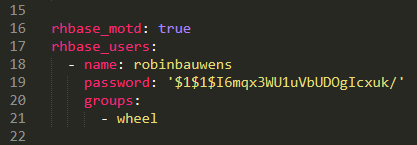
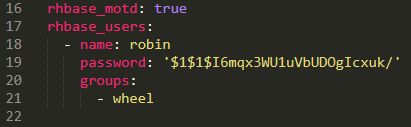
Opdracht 1 code en report toegevoegd
Inclusief aanpassing gebruiker (naam)

diff --git a/report/00-server-setup report.md b/report/00-server-setup report.md
@@ -1,0 +1,95 @@
+# Enterprise Linux Lab Report
+
+- Student name: Robin Bauwens 
+- Github repo: <https://github.com/HoGentTIN/elnxsme-RobinBauwens.git>
+
+Describe the goals of the current iteration/assignment in a short sentence.
+
+## Test plan
+
+How are you going to verify that the requirements are met? The test plan is a detailed checklist of actions to take, including the expected result for each action, in order to prove your system meets the requirements. Part of this is running the automated tests, but it is not always possible to validate *all* requirements throught these tests.
+
+
+1. Ga naar je working directory van het Github-project.
+2. Verwijder de VM met `vagrant destroy -f pu004` indien deze bestaat. Je zou status `not created` moeten krijgen.
+3. Voer `vagrant up pu004` uit.
+4. Log in op de server met `vagrant ssh pu004` en voer de testen uit (`vagrant/test/runbats.sh`).
+Je zou volgende output moeten krijgen:
+
+    ```
+    [vagrant@pu004 test]$ sudo /vagrant/test/runbats.sh
+    Running test /vagrant/test/common.bats
+    ✓ EPEL repository should be available
+    ✓ Bash-completion should have been installed
+    ✓ bind-utils should have been installed
+    ✓ Git should have been installed
+    ✓ Nano should have been installed
+    ✓ Tree should have been installed
+    ✓ Vim-enhanced should have been installed
+    ✓ Wget should have been installed
+    ✓ Admin user bert should exist
+    ✓ Custom /etc/motd should be installed
+
+    10 tests, 0 failures
+    ```
+
+5. Log uit van de server en ssh ernaar toe (niet via vagrant) met `ssh robin@192.0.2.50`.
+Verwachte output (mileage may vary):
+    ```
+    $ ssh robin@192.0.2.50
+    Welcome to pu004.localdomain.
+    enp0s3     : 10.0.2.15         fe80::a00:27ff:fe5c:6428/64
+    enp0s8     : 192.0.2.50        fe80::a00:27ff:fecd:aeed/64
+    [robin@pu004 ~]$
+    ```
+
+
+## Procedure/Documentation
+
+Describe *in detail* how you completed the assignment, with main focus on the "manual" work. It is of course not necessary to copy/paste your code in this document, but you can refer to it with a hyperlink.
+
+Make sure to write clean Markdown code, so your report looks good and is clearly structured on Github.
+
+
+
+ 1. Eerst voegen we de role `bertvv.rh-base` toe, dit plaatsen we in `site.yml`.  
+ ![site.yml](img/0.PNG)
+
+ 2. Vervolgens zorgen we ervoor dat alle packages en EPEL-repository geïnstalleerd worden.
+ ![all.yml](img/1.PNG)
+
+ 3. Hierna maken we een gebruikeraccount `robin` aan, deze moet ook een passwoord (hashed) en sudo-rechten toegekend krijgen. Ook zorgen we ervoor dat er een message of the day getoond wordt. Dit gebeurt via:
+![all.yml](img/2.PNG)
+
+ **Opmerking**: het omzetten van een "tekstpaswoord" naar een paswoord hash gebeurt via het commando `openssl passwd -salt 1 -1 testpassword`. Vervang `testpassword` naar een eigen paswoord naar keuze.
+ 4. Ten slotte zorgen we ervoor dat gebruiker `robin` via SSH kan inloggen zonder een paswoord in te geven. Typ eerst `keygen.exe` in Git Bash en overschrijf de passphrase (indien deze al bestaat), kies voor een lege/geen passphrase (gewoon <Enter> ingeven).
+ ![Git Bash](img/3.PNG)
+ ![Git Bash](img/4.PNG)
+ 5. Kopieer de sleutel uit `id_rsa.pub` (TEMP-directory) en plak deze bij `rhbase_ssh_key`, geef ook als `rhbase_ssh_user` de gebruiker `robin` mee.
+ ![all.yml](img/5.PNG)
+ 
+
+## Test report
+
+The test report is a transcript of the execution of the test plan, with the actual results. Significant problems you encountered should also be mentioned here, as well as any solutions you found. The test report should clearly prove that you have met the requirements.
+
+![Git Bash](img/8.PNG)
+
+![Git Bash](img/9.PNG)
+
+![Git Bash](img/6.PNG)
+
+![Git Bash](img/7.PNG)
+
+![Git Bash](img/10.PNG)
+
+- Je zal eventueel een bestaand `id_rsa.pub` moeten overschrijven indien deze al bestaat. Gebruik dus NIET de `id_rsa.pub` als je nog geen `ssh-keygen.exe` hebt uitgevoerd.
+
+
+## Resources
+
+List all sources of useful information that you encountered while completing this assignment: books, manuals, HOWTO's, blog posts, etc.
+
+- [OpenSSL](https://serverfault.com/questions/574586/what-is-the-purpose-of-openssl-passwd)
+- https://wiki.openssl.org/index.php/Manual:Passwd(1)
+- https://ma.ttias.be/how-to-generate-a-passwd-password-hash-via-the-command-line-on-linux/
